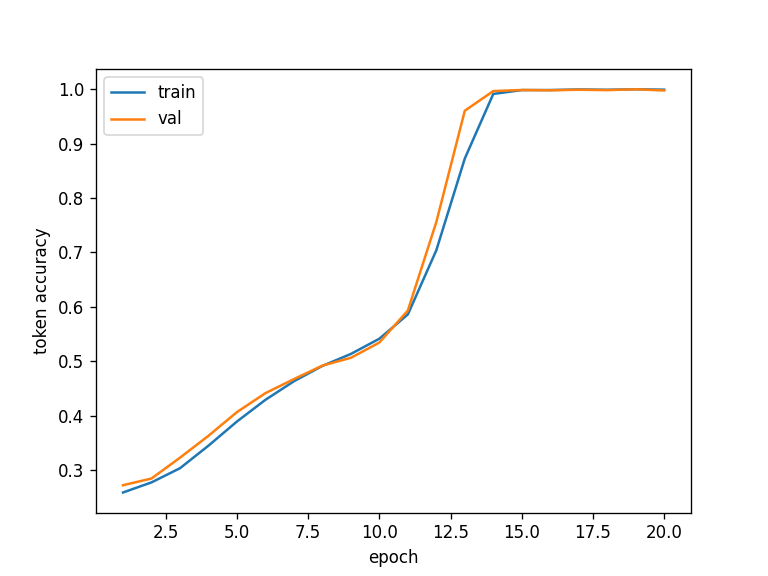
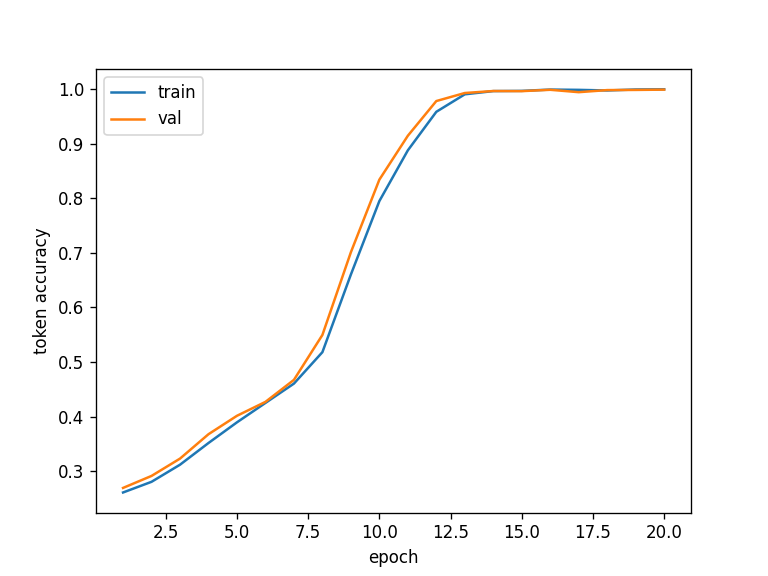
final commit (hopefully)

diff --git a/src/models/blt.py b/src/models/blt.py
@@ -45,13 +45,8 @@ class BLTEncoder(nn.Module):
         self.byte_embeddings = ByteEmbeddings(vocab_size, model_dim)
         self.positional_embeddings = SinusoidalPositionalEmbeddings(model_dim)
 
-        # learned position-within-patch, so bit order survives pooling
-        self.intra_patch_pos = nn.Parameter(torch.randn(patch_size, model_dim) * 0.02)
-
-        # order-preserving patch initialisation
         self.patch_proj = nn.Linear(patch_size * model_dim, model_dim)
 
-        # byte-level self-attention: contextualises kv before each pooling step
         self.byte_attn = nn.ModuleList([MHA(num_heads, model_dim) for _ in range(num_layers)])
         self.byte_norm = nn.ModuleList([LayerNorm(model_dim) for _ in range(num_layers)])
 
@@ -73,9 +68,6 @@ class BLTEncoder(nn.Module):
 
         num_patches = n // self.patch_size
         kv = emb.view(b * num_patches, self.patch_size, self.model_dim)
-
-        # full-strength positional signal inside the patch
-        kv = kv + self.intra_patch_pos.unsqueeze(0)
 
         # initial patch vector preserves bit order (concat + project, not mean)
         q = self.patch_proj(kv.reshape(b * num_patches, -1)).unsqueeze(1)

diff --git a/src/dataset.py b/src/dataset.py
@@ -120,6 +120,10 @@ def get_bpe_dataloaders(cipher_file_path, plaintext_file_path, split_path, sourc
     return make(train_idx, True), make(val_idx, False), make(test_idx, False), meta
 
 
+def bits_to_bytes(bit_string):
+    n = len(bit_string)  
+    return [int(bit_string[i:i+8], 2) for i in range(0, n, 8)]
+
 def get_byte_dataloaders(cipher_file_path, plaintext_file_path, split_path, sequence_length, batch_size, byte_vocab_size=256, source_length=None):
     cipher_lines, plain_lines = load_lines(cipher_file_path, plaintext_file_path)
     train_idx, val_idx, test_idx = load_splits(split_path)
@@ -127,7 +131,7 @@ def get_byte_dataloaders(cipher_file_path, plaintext_file_path, split_path, sequ
     specials = make_special_ids(byte_vocab_size)
 
     def make(idx_list, shuffle_data):
-        sources = [list(cipher_lines[i].encode("utf-8")) for i in idx_list]
+        sources = [bits_to_bytes(cipher_lines[i]) for i in idx_list]
         targets = [list(plain_lines[i].encode("utf-8")) for i in idx_list]
         return build_loader(sources, targets, sequence_length, batch_size, specials, specials, shuffle_data, source_length)
 

diff --git a/src/train.py b/src/train.py
@@ -29,7 +29,7 @@ NUM_HEADS = 8
 NUM_LAYERS = 6
 LOCAL_ENC_LAYERS = 2
 LOCAL_DEC_LAYERS = 2
-PATCH_SIZE = 8
+PATCH_SIZE = 1
 CKPT_EVERY = 5
 NUM_SAMPLES = 20
 
@@ -39,7 +39,7 @@ os.makedirs(OUT_DIR, exist_ok=True)
 
 def load_data():
     if CONFIG == "C5":
-        loaders = get_byte_dataloaders(CIPHER_PATH, PLAIN_PATH, SPLIT_PATH, SEQ_LEN, BATCH_SIZE, source_length=2064)
+        loaders = get_byte_dataloaders(CIPHER_PATH, PLAIN_PATH, SPLIT_PATH, SEQ_LEN, BATCH_SIZE, source_length=SEQ_LEN)
         return (*loaders, None)
 
     src_tok = CipherBPETokenizer(vocab_size=256)
